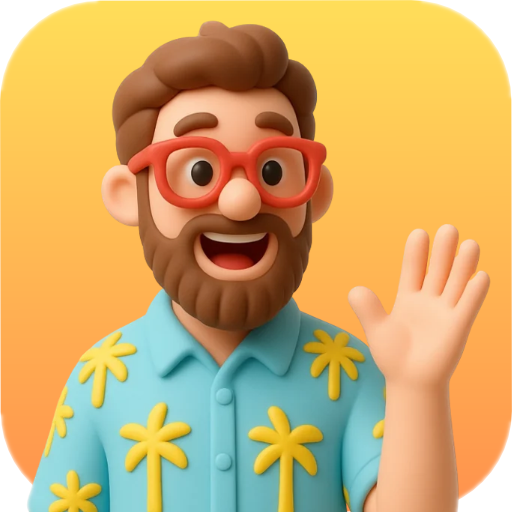
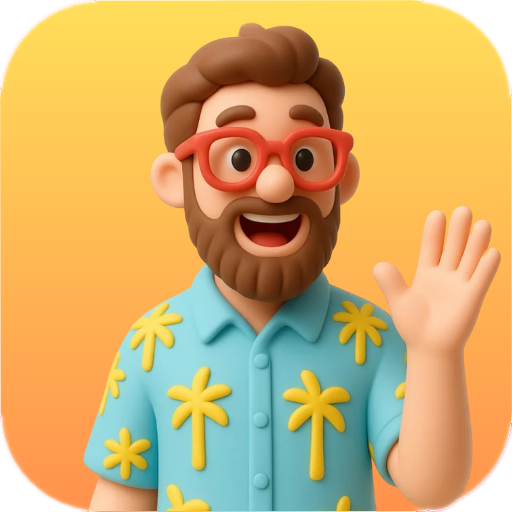
chore: release v1.1.0 (#14)
Bumps the version and ships the re-centered window icon.

diff --git a/README.md b/README.md
@@ -41,7 +41,7 @@ The interface is in Brazilian Portuguese.
 Download `art-todo_<version>_amd64.deb` from the [releases](https://github.com/ArthurViniciusL/art-todo/releases), then:
 
 ```bash
-sudo apt install ./art-todo_1.0.1_amd64.deb
+sudo apt install ./art-todo_1.1.0_amd64.deb
 ```
 
 Data lives in `~/.config/art-todo/art-todo.db`.
